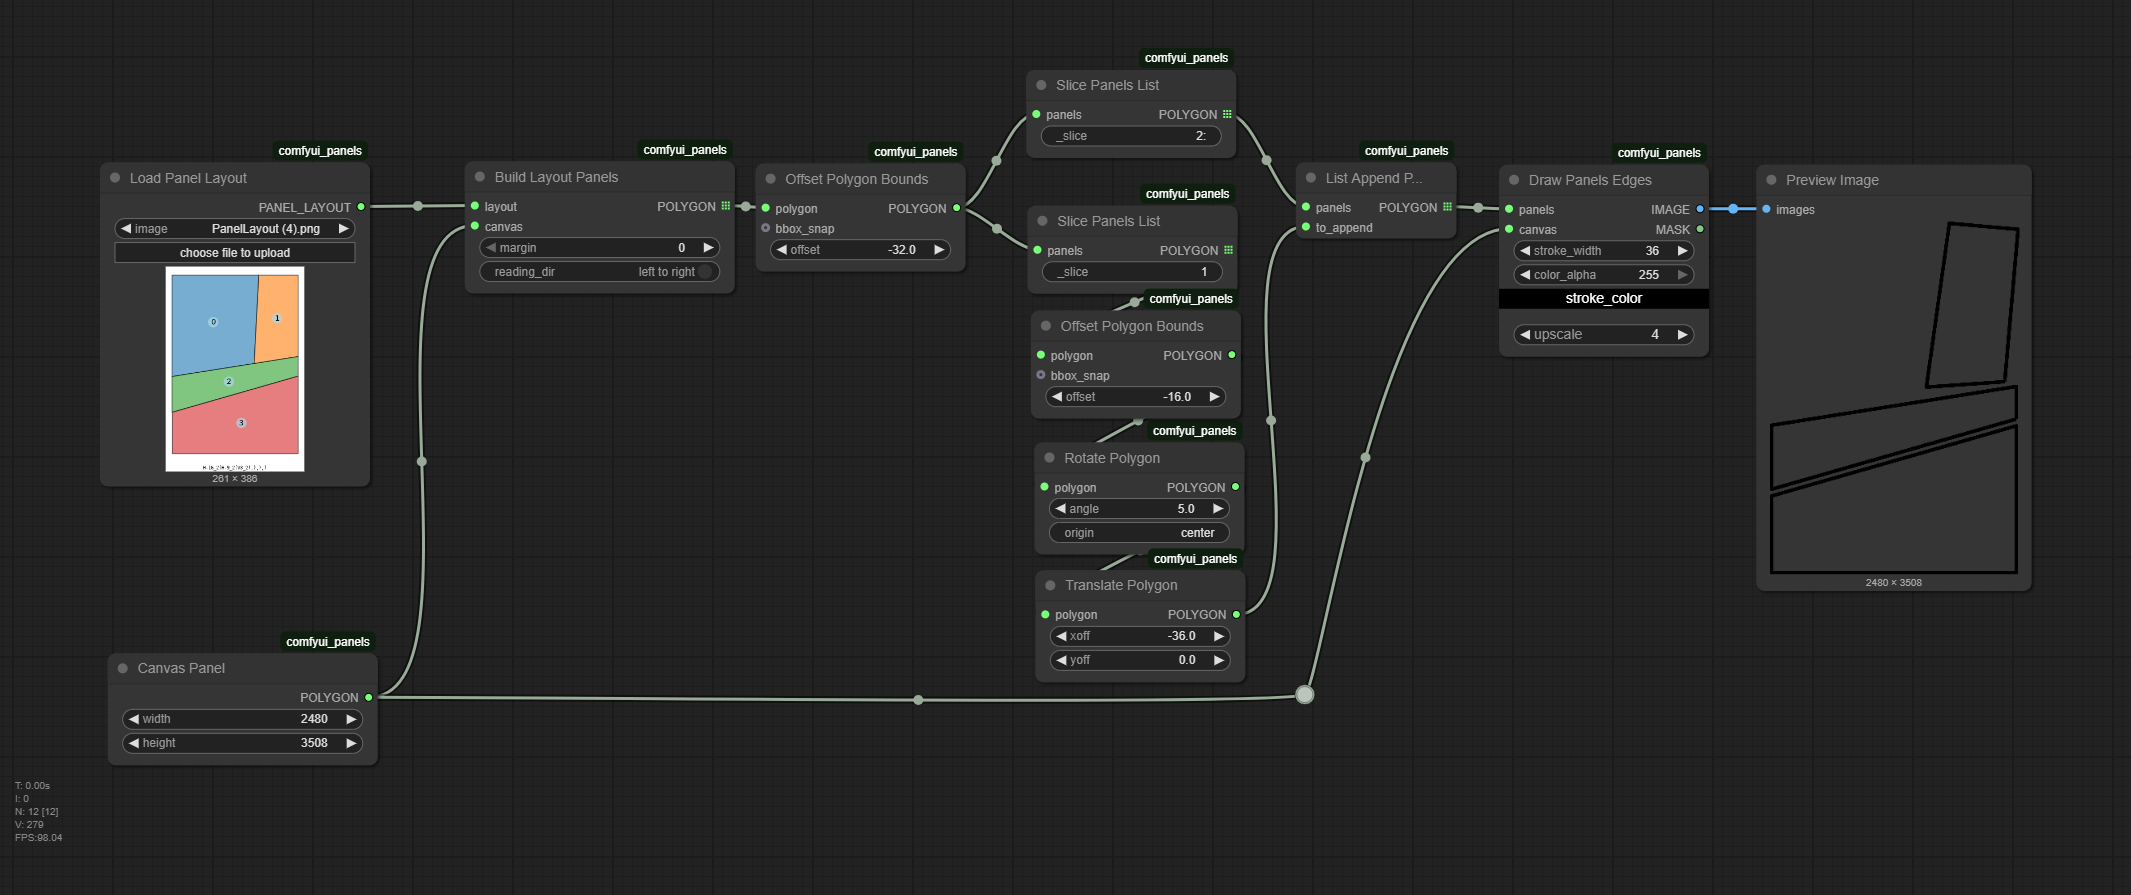
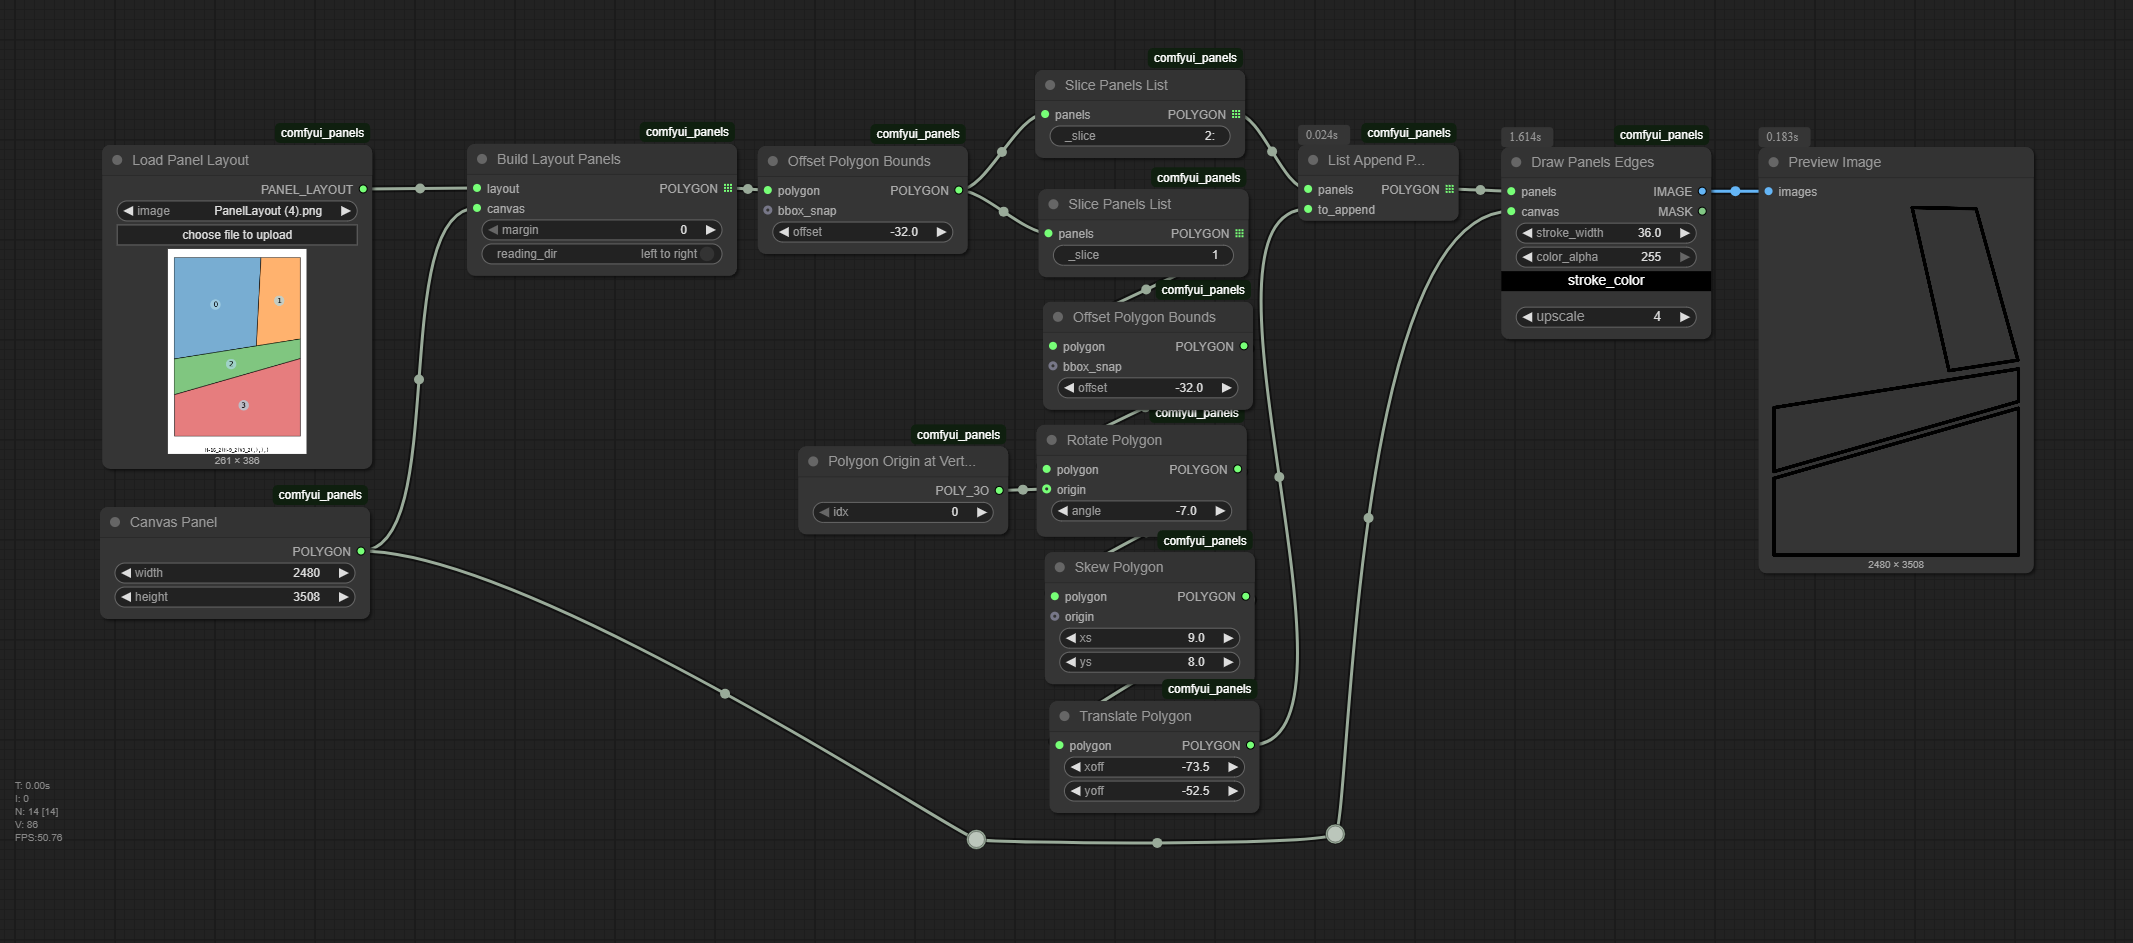
revamp polygon operations

diff --git a/nodes.py b/nodes.py
@@ -1,4 +1,4 @@
-from shapely.affinity import rotate, scale, translate
+from shapely.affinity import rotate, scale, translate, skew
 from shapely.geometry import box  # , Polygon
 from PIL.PngImagePlugin import PngInfo
 import torch.nn.functional as F
@@ -15,6 +15,7 @@ from nodes import LoadImage
 import folder_paths
 import node_helpers
 
+from .MangaPanelExtractor import MangaPanelExtractor
 from .CutNode import *
 from .aux_data import *
 from .draw_funcs import draw_polygons_contours_line, draw_polygons_contours_dashed, draw_polygons_contours_dotted
@@ -28,6 +29,7 @@ class IO_Types:
     PANEL = "POLYGON"  # The layout panels. using original type to potentially re-use in or interface w/ other packages
     BBOX = "BBOX"
     BBOX_SNAP = "BBOX_SNAP"
+    POLY_3O = "POLY_3O"  # POLYGON OPERATION ORIGIN OPTION
 
 
 def unwrap_bbox_as_ints(bbox, container_tensor=None) -> tuple[int, int, int, int]:
@@ -75,6 +77,9 @@ def _RGBA2tensors(img: Image.Image) -> tuple[torch.Tensor, torch.Tensor]:
     mask = torch.from_numpy(mask)
     return image, mask
 
+
+def _get_poly_vert(poly: Polygon, index: int):
+    return poly.exterior.coords[index]
 
 
 # region Core Nodes
@@ -727,7 +732,10 @@ class RotatePolygon:
             "required": {
                 "polygon": (IO_Types.PANEL,),
                 "angle": ("FLOAT", {"default": 0.0, "min": -360.0, "max": 360.0}),
-                "origin": ("STRING", {"default": "center"}),  # "center", "centroid", or (x,y)
+            },
+            "optional": {
+                "origin": (IO_Types.POLY_3O, {"tooltip": "The origin point used for the operation.\n"
+                                                         "If none provided, the 'center' option is used."})
             }
         }
 
@@ -735,7 +743,10 @@ class RotatePolygon:
     FUNCTION = "func"
     CATEGORY = CATEGORY_PATH
 
-    def func(self, polygon, angle, origin):
+    def func(self, polygon, angle, origin="center"):
+        if isinstance(origin, int):  # vert index case
+            origin = _get_poly_vert(polygon, origin)
+
         new_poly = rotate(polygon, angle, origin=origin)
         return (new_poly,)
 
@@ -748,7 +759,10 @@ class ScalePolygon:
                 "polygon": (IO_Types.PANEL,),
                 "xfact": ("FLOAT", {"default": 1.0, "min": -10.0, "max": 10.0, "step": .001}),
                 "yfact": ("FLOAT", {"default": 1.0, "min": -10.0, "max": 10.0, "step": .001}),
-                "origin": ("STRING", {"default": "center"}),
+            },
+            "optional": {
+                "origin": (IO_Types.POLY_3O, {"tooltip": "The origin point used for the operation.\n"
+                                                         "If none provided, the 'center' option is used."})
             }
         }
 
@@ -756,7 +770,10 @@ class ScalePolygon:
     FUNCTION = "func"
     CATEGORY = CATEGORY_PATH
 
-    def func(self, polygon, xfact, yfact, origin):
+    def func(self, polygon, xfact, yfact, origin="center"):
+        if isinstance(origin, int):  # vert index case
+            origin = _get_poly_vert(polygon, origin)
+
         new_poly = scale(polygon, xfact=xfact, yfact=yfact, origin=origin)
         return (new_poly,)
 
@@ -767,8 +784,8 @@ class TranslatePolygon:
         return {
             "required": {
                 "polygon": (IO_Types.PANEL,),
-                "xoff": ("FLOAT", {"default": 0.0, "min": -1000.0, "max": 1000.0}),
-                "yoff": ("FLOAT", {"default": 0.0, "min": -1000.0, "max": 1000.0}),
+                "xoff": ("FLOAT", {"default": 0.0, "min": -4096.0, "max": 4096.0}),
+                "yoff": ("FLOAT", {"default": 0.0, "min": -4096.0, "max": 4096.0}),
             }
         }
 
@@ -812,6 +829,80 @@ class BevelPolygon:
                     return p
                 p = max(polys, key=lambda g: g.area)
         return (p,)
+
+
+class SkewPolygon:
+    @classmethod
+    def INPUT_TYPES(cls):
+        return {
+            "required": {
+                "polygon": (IO_Types.PANEL,),
+                "xs": ("FLOAT", {"default": 0.0, "min": -360.0, "max": 360.0}),
+                "ys": ("FLOAT", {"default": 0.0, "min": -360.0, "max": 360.0}),
+            },
+            "optional": {
+                "origin": (IO_Types.POLY_3O, {"tooltip": "The origin point used for the operation.\n"
+                                                         "If none provided, the 'center' option is used."})
+            }
+        }
+
+    RETURN_TYPES = (IO_Types.PANEL,)
+    FUNCTION = "func"
+    CATEGORY = CATEGORY_PATH
+
+    def func(self, polygon, xs, ys, origin="center"):
+        if isinstance(origin, int):  # vert index case
+            origin = _get_poly_vert(polygon, origin)
+
+        new_poly = skew(polygon, xs, ys, origin=origin)
+        return (new_poly,)
+
+
+class PolygonOrigin:
+    @classmethod
+    def INPUT_TYPES(cls):
+        return {}
+
+    RETURN_TYPES = (IO_Types.POLY_3O,)
+    FUNCTION = "func"
+    CATEGORY = CATEGORY_PATH
+
+
+class PolygonOriginVector(PolygonOrigin):
+    @classmethod
+    def INPUT_TYPES(cls):
+        return {
+            "required": {
+                "x": ("FLOAT", {"default": 0.0}),
+                "y": ("FLOAT", {"default": 0.0}),
+            }
+        }
+
+    def func(self, x, y):
+        return ((x, y),)
+
+
+class PolygonOriginCenter(PolygonOrigin):
+    def func(self, ):
+        return ("center",)
+
+
+class PolygonOriginCentroid(PolygonOrigin):
+    def func(self, ):
+        return ("centroid",)
+
+
+class PolygonOriginVertex(PolygonOrigin):
+    @classmethod
+    def INPUT_TYPES(cls):
+        return {
+            "required": {
+                "idx": ("INT", {"default": 0, "min": 0, "tooltip": "Vertex index in the polygon.exterior.coords."}),
+            }
+        }
+
+    def func(self, idx):
+        return (idx,)
 
 # endregion  Polygon Operations
 
@@ -1318,12 +1409,6 @@ class CropImageByBBox:
         return (cropped,)
 
 
-# endregion Other Nodes
-
-
-from .MangaPanelExtractor import MangaPanelExtractor
-
-
 class DetectPanelsInImage:
 
     SIMPLIFICATION_METHODS = ["none", "bounding_box", "max_area_combination"]
@@ -1378,6 +1463,8 @@ class DetectPanelsInImage:
         panels = [panel["polygon"] for panel in results["panels"]]
         return (panels,)
 
+# endregion Other Nodes
+
 
 NODE_CLASS_MAPPINGS = {
     "bmad_CanvasPanel": CanvasPanel,
@@ -1400,6 +1487,12 @@ NODE_CLASS_MAPPINGS = {
     "bmad_ScalePolygon": ScalePolygon,
     "bmad_TranslatePolygon": TranslatePolygon,
     "bmad_BevelPolygon": BevelPolygon,
+    "bmad_SkewPolygon": SkewPolygon,
+
+    "bmad_PolygonOriginVector": PolygonOriginVector,
+    "bmad_PolygonOriginCenter": PolygonOriginCenter,
+    "bmad_PolygonOriginCentroid": PolygonOriginCentroid,
+    "bmad_PolygonOriginVertex": PolygonOriginVertex,
 
     "bmad_BuildLayoutPanels": BuildLayoutPanels,
     "bmad_RandomPanelLayoutGenerator": RandomPanelLayoutGenerator,
@@ -1446,6 +1539,12 @@ NODE_DISPLAY_NAME_MAPPINGS = {
     "bmad_ScalePolygon": "Scale Polygon",
     "bmad_TranslatePolygon": "Translate Polygon",
     "bmad_BevelPolygon": "Bevel Polygon",
+    "bmad_SkewPolygon": "Skew Polygon",
+
+    "bmad_PolygonOriginVector": "Polygon Origin at Point",
+    "bmad_PolygonOriginCenter": "Polygon Origin at Center",
+    "bmad_PolygonOriginCentroid": "Polygon Origin at Centroid",
+    "bmad_PolygonOriginVertex": "Polygon Origin at Vertex",
 
     "bmad_BuildLayoutPanels": "Build Layout Panels",
     "bmad_RandomPanelLayoutGenerator": "Random Panel Layout Generator",
